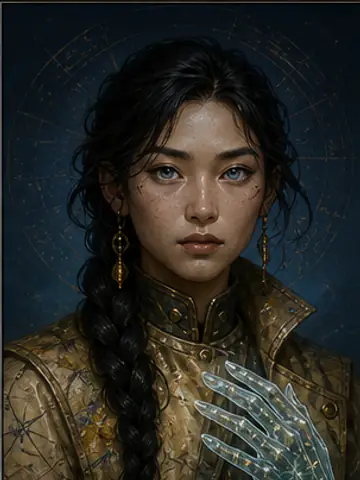
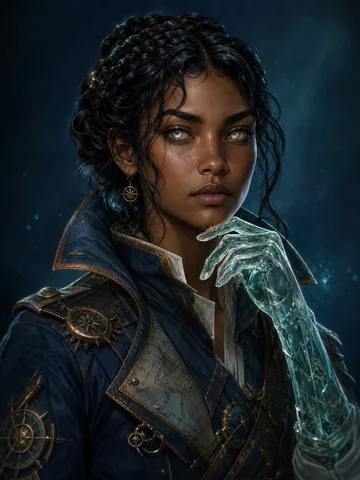
fix(worldbuilding): keep character thumbnails matched

diff --git a/electron/db/worldbuildingDemoData.ts b/electron/db/worldbuildingDemoData.ts
@@ -38,6 +38,7 @@ const PREFIX = 'demo-world-';
 const AT = '2026-07-28T12:00:00.000Z';
 const PREVIOUS_AT = '2026-07-21T12:00:00.000Z';
 const IMAGE_AT = '2026-07-28T21:00:00.000Z';
+const MATCHED_THUMBNAIL_AT = '2026-07-28T22:45:00.000Z';
 
 type DemoLocale = AppLanguage;
 type Localized = WorldbuildingDemoLocalized;
@@ -461,6 +462,65 @@ export function upgradeWorldbuildingDemoImageQuality(): boolean {
            updated_at = ?
          WHERE person_id = ? AND mime = 'image/webp'`
       ).run(demoAsset(`${base}.png`), demoAsset(`${base}.webp`), IMAGE_AT, personId);
+    }
+
+    // The first lossless-image upgrade shipped its PNG originals and WebP card images
+    // independently. Several pairs therefore depicted different characters: the grid
+    // loaded one asset and the dossier loaded another. Repair only rows whose original
+    // still equals the distributed PNG byte-for-byte. A portrait replaced by the author
+    // is not demo-owned anymore and must never have even its thumbnail rewritten.
+    const currentPortraits = db
+      .prepare(
+        `SELECT person_id, blob, thumbnail
+           FROM person_portraits
+          WHERE person_id LIKE ? AND mime = 'image/png'`
+      )
+      .all(`${PREFIX}char-%`) as Array<{
+        person_id: string;
+        blob: Buffer;
+        thumbnail: Buffer | null;
+      }>;
+    for (const portrait of currentPortraits) {
+      const base = `character-${portrait.person_id.slice(`${PREFIX}char-`.length)}`;
+      const shippedOriginal = demoAsset(`${base}.png`);
+      const shippedThumbnail = demoAsset(`${base}.webp`);
+      if (
+        portrait.blob.equals(shippedOriginal)
+        && !portrait.thumbnail?.equals(shippedThumbnail)
+      ) {
+        db.prepare(
+          `UPDATE person_portraits
+              SET thumbnail = ?, thumbnail_mime = 'image/webp', updated_at = ?
+            WHERE person_id = ? AND blob = ?`
+        ).run(shippedThumbnail, MATCHED_THUMBNAIL_AT, portrait.person_id, shippedOriginal);
+      }
+    }
+
+    // The character gallery repeats the portrait as its first image and uses the same
+    // thumbnail/original split, so keep that pair under the identical invariant.
+    const currentCharacterImages = db
+      .prepare(
+        `SELECT image_id, entity_id, blob, thumbnail
+           FROM world_images
+          WHERE image_id LIKE ? AND entity_kind = 'character' AND mime_type = 'image/png'`
+      )
+      .all(`${PREFIX}%`) as Array<{
+        image_id: string;
+        entity_id: string;
+        blob: Buffer;
+        thumbnail: Buffer | null;
+      }>;
+    for (const image of currentCharacterImages) {
+      const base = `character-${image.entity_id.slice(`${PREFIX}char-`.length)}`;
+      const shippedOriginal = demoAsset(`${base}.png`);
+      const shippedThumbnail = demoAsset(`${base}.webp`);
+      if (image.blob.equals(shippedOriginal) && !image.thumbnail?.equals(shippedThumbnail)) {
+        db.prepare(
+          `UPDATE world_images
+              SET thumbnail = ?, thumbnail_mime_type = 'image/webp', updated_at = ?
+            WHERE image_id = ? AND blob = ?`
+        ).run(shippedThumbnail, MATCHED_THUMBNAIL_AT, image.image_id, shippedOriginal);
+      }
     }
 
     const mapRows = [
